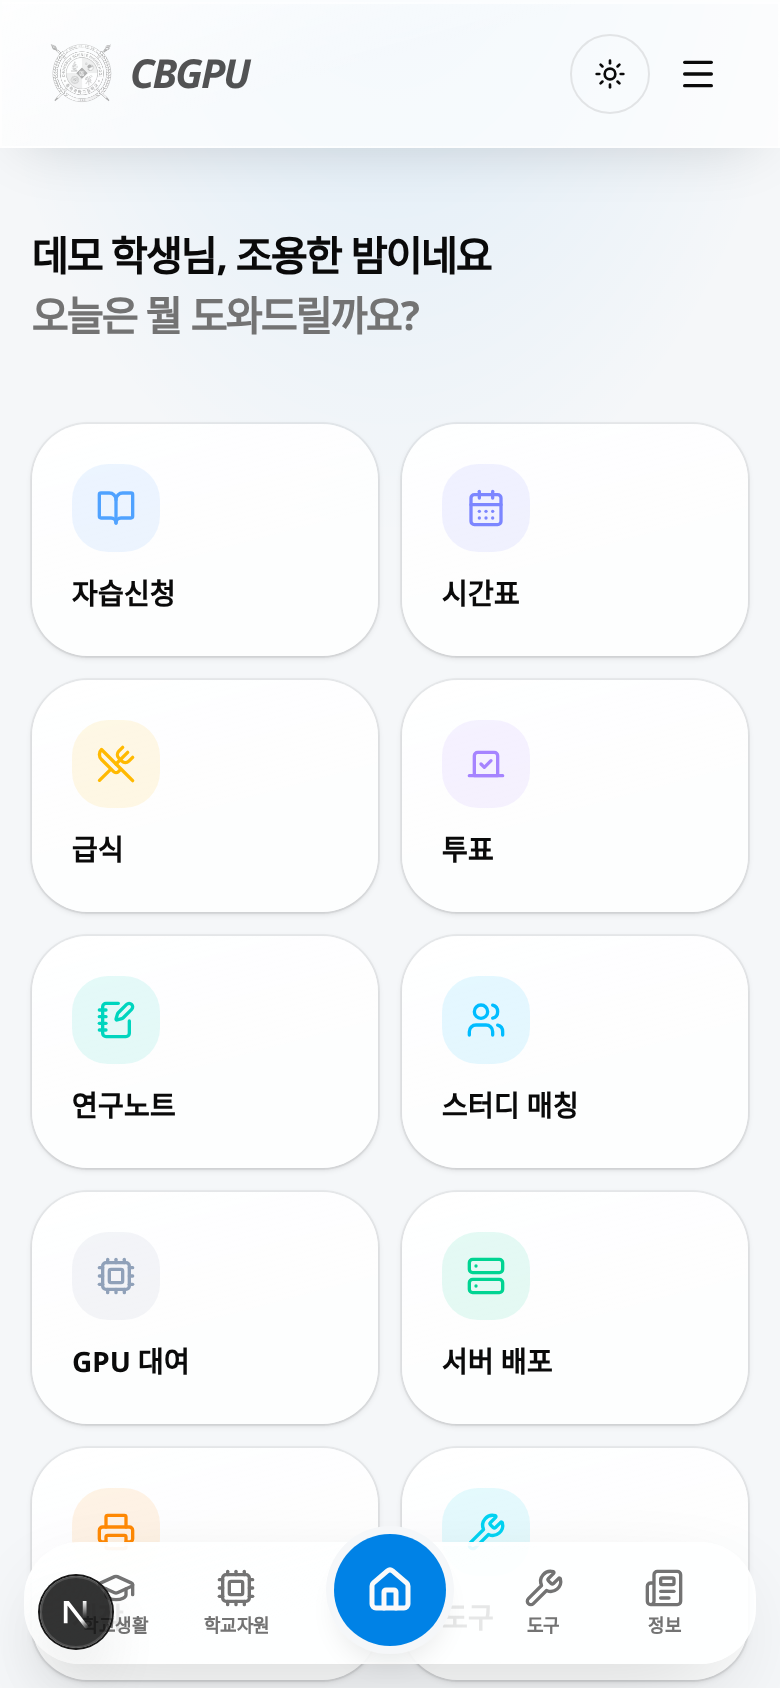
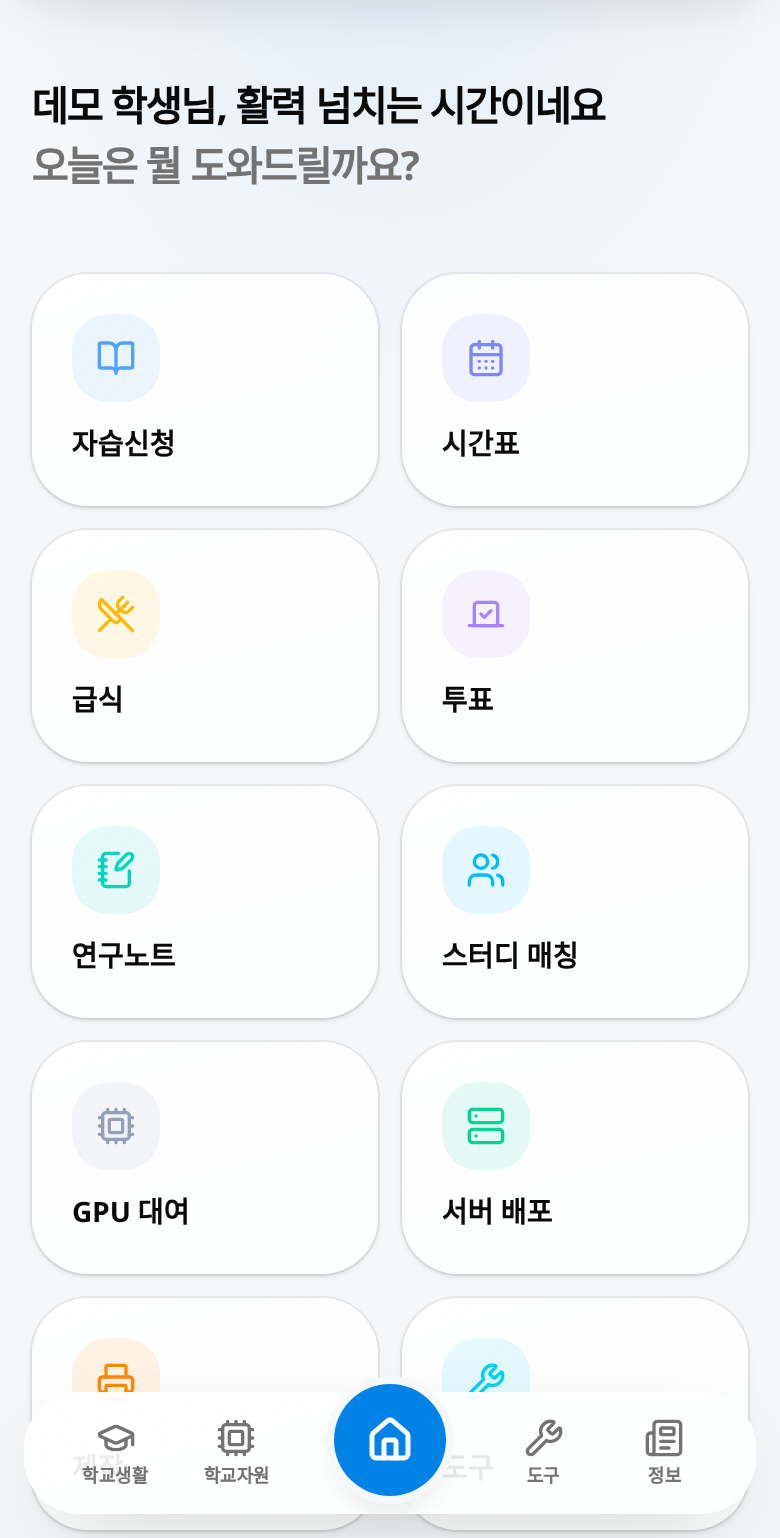
fix(web): recapture launch page screenshots, redesign phone mockup
Every screenshot on the launch page had Next.js's dev-mode indicator
(a black "N" bubble) baked into the corner — they'd all been captured
against `next dev`, not a production build. Rebuilt in production mode
and recaptured all 7 screens. Also cropped the repeated top navbar
(logo/theme toggle/hamburger) out of each — the same generic header on
every single mockup read as "a website in a phone frame," not app
screenshots.

PhoneMockup itself was a flat black rounded rectangle with a tiny dot
for a camera. Gave it a titanium-gradient frame, a proper dynamic-
island-style cutout, a subtle glass sheen on the screen, and a softer
ambient shadow so it reads as an actual device.

diff --git a/FrontEnd/cbgpu/src/components/PhoneMockup.tsx b/FrontEnd/cbgpu/src/components/PhoneMockup.tsx
@@ -1,23 +1,30 @@
 import Image from 'next/image';
 
 /** Generic modern-smartphone bezel (no particular brand) around a screenshot
- * — CSS only, no device-frame image asset needed. */
+ * — CSS only, no device-frame image asset needed. Titanium-ish gradient
+ * frame + a dynamic-island-style cutout reads as an actual device rather
+ * than "a black rounded rectangle", which a flat bg-neutral-900 frame with a
+ * tiny punch-hole dot did not. */
 export function PhoneMockup({
   src, alt, className = '', width = 260,
 }: { src: string; alt: string; className?: string; width?: number }) {
   return (
     <div className={`relative mx-auto ${className}`} style={{ width }}>
-      <div className="relative rounded-[2.5rem] bg-neutral-900 p-2.5 shadow-2xl">
-        <div className="relative rounded-[2rem] overflow-hidden bg-black aspect-[9/19.5]">
-          <Image src={src} alt={alt} fill sizes="260px" className="object-cover object-top" />
-          {/* punch-hole camera */}
-          <div className="absolute top-2.5 left-1/2 -translate-x-1/2 size-2.5 rounded-full bg-black ring-1 ring-white/10" />
+      <div className="relative rounded-[3rem] bg-gradient-to-br from-neutral-600 via-neutral-800 to-black p-[3px] shadow-[0_35px_60px_-20px_rgba(0,0,0,0.45)]">
+        <div className="relative rounded-[calc(3rem-3px)] bg-black p-2 ring-1 ring-white/10">
+          <div className="relative rounded-[2.1rem] overflow-hidden bg-black aspect-[9/19.5]">
+            <Image src={src} alt={alt} fill sizes="300px" className="object-cover object-top" />
+            {/* subtle glass sheen */}
+            <div className="pointer-events-none absolute inset-0 bg-gradient-to-br from-white/10 via-transparent to-transparent" />
+            {/* dynamic-island-style cutout */}
+            <div className="absolute top-2.5 left-1/2 -translate-x-1/2 w-16 h-5 rounded-full bg-black ring-1 ring-white/10" />
+          </div>
         </div>
       </div>
       {/* side buttons */}
-      <div className="absolute right-0 top-24 w-[3px] h-10 bg-neutral-900 rounded-l" />
-      <div className="absolute left-0 top-20 w-[3px] h-6 bg-neutral-900 rounded-r" />
-      <div className="absolute left-0 top-28 w-[3px] h-10 bg-neutral-900 rounded-r" />
+      <div className="absolute right-0 top-24 w-[3px] h-11 bg-gradient-to-b from-neutral-600 to-neutral-900 rounded-l" />
+      <div className="absolute left-0 top-20 w-[3px] h-7 bg-gradient-to-b from-neutral-600 to-neutral-900 rounded-r" />
+      <div className="absolute left-0 top-28 w-[3px] h-11 bg-gradient-to-b from-neutral-600 to-neutral-900 rounded-r" />
     </div>
   );
 }
